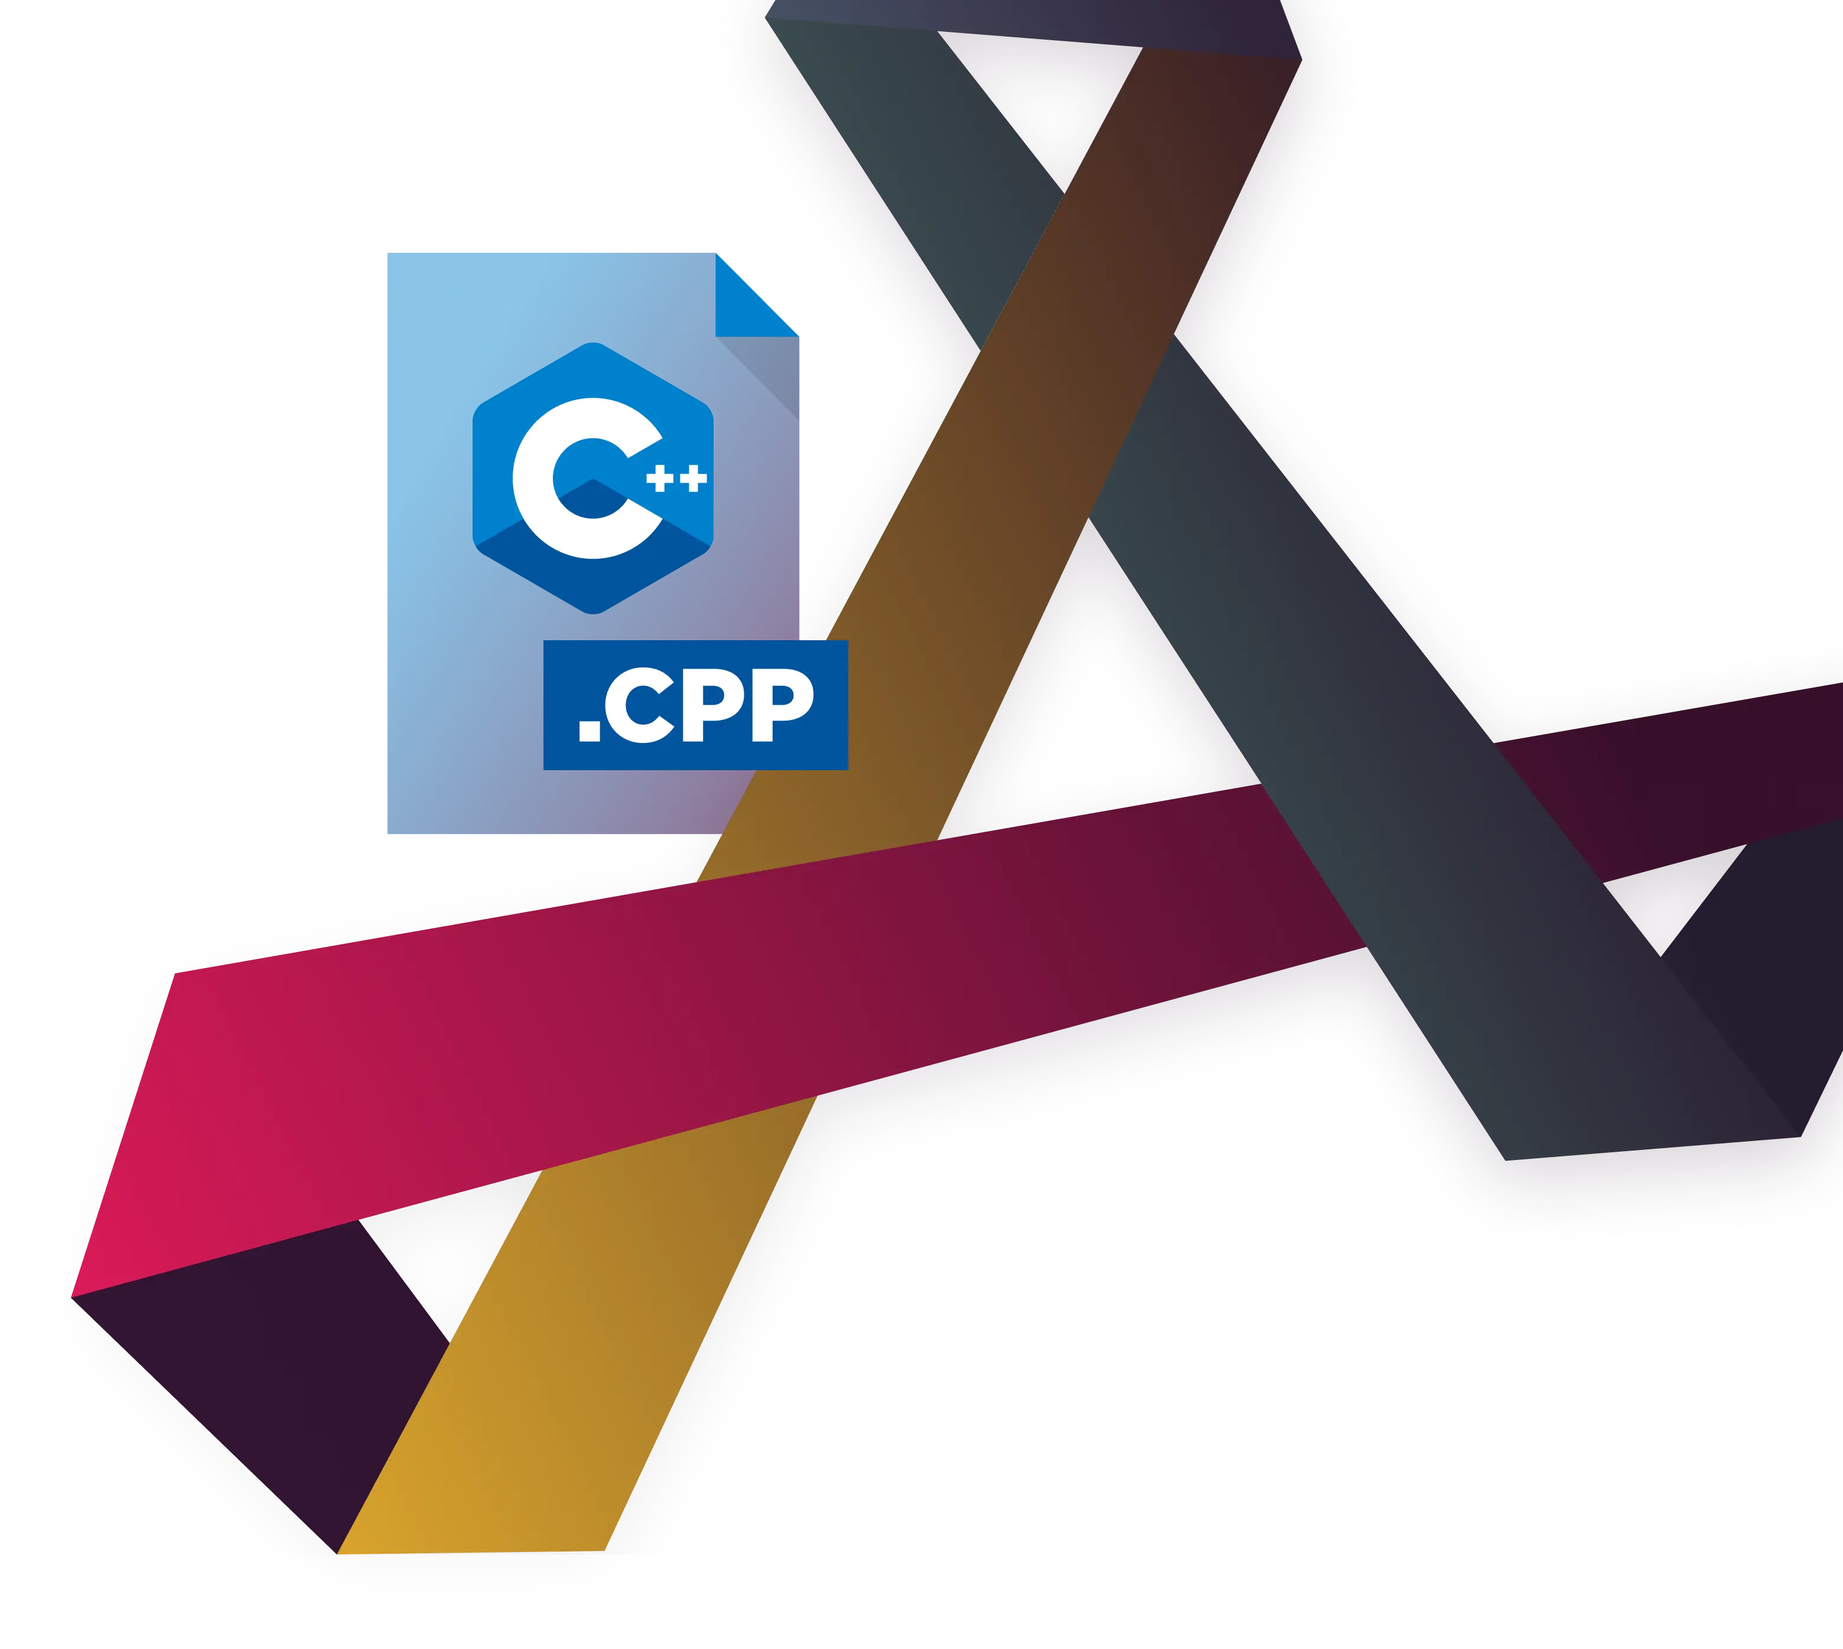
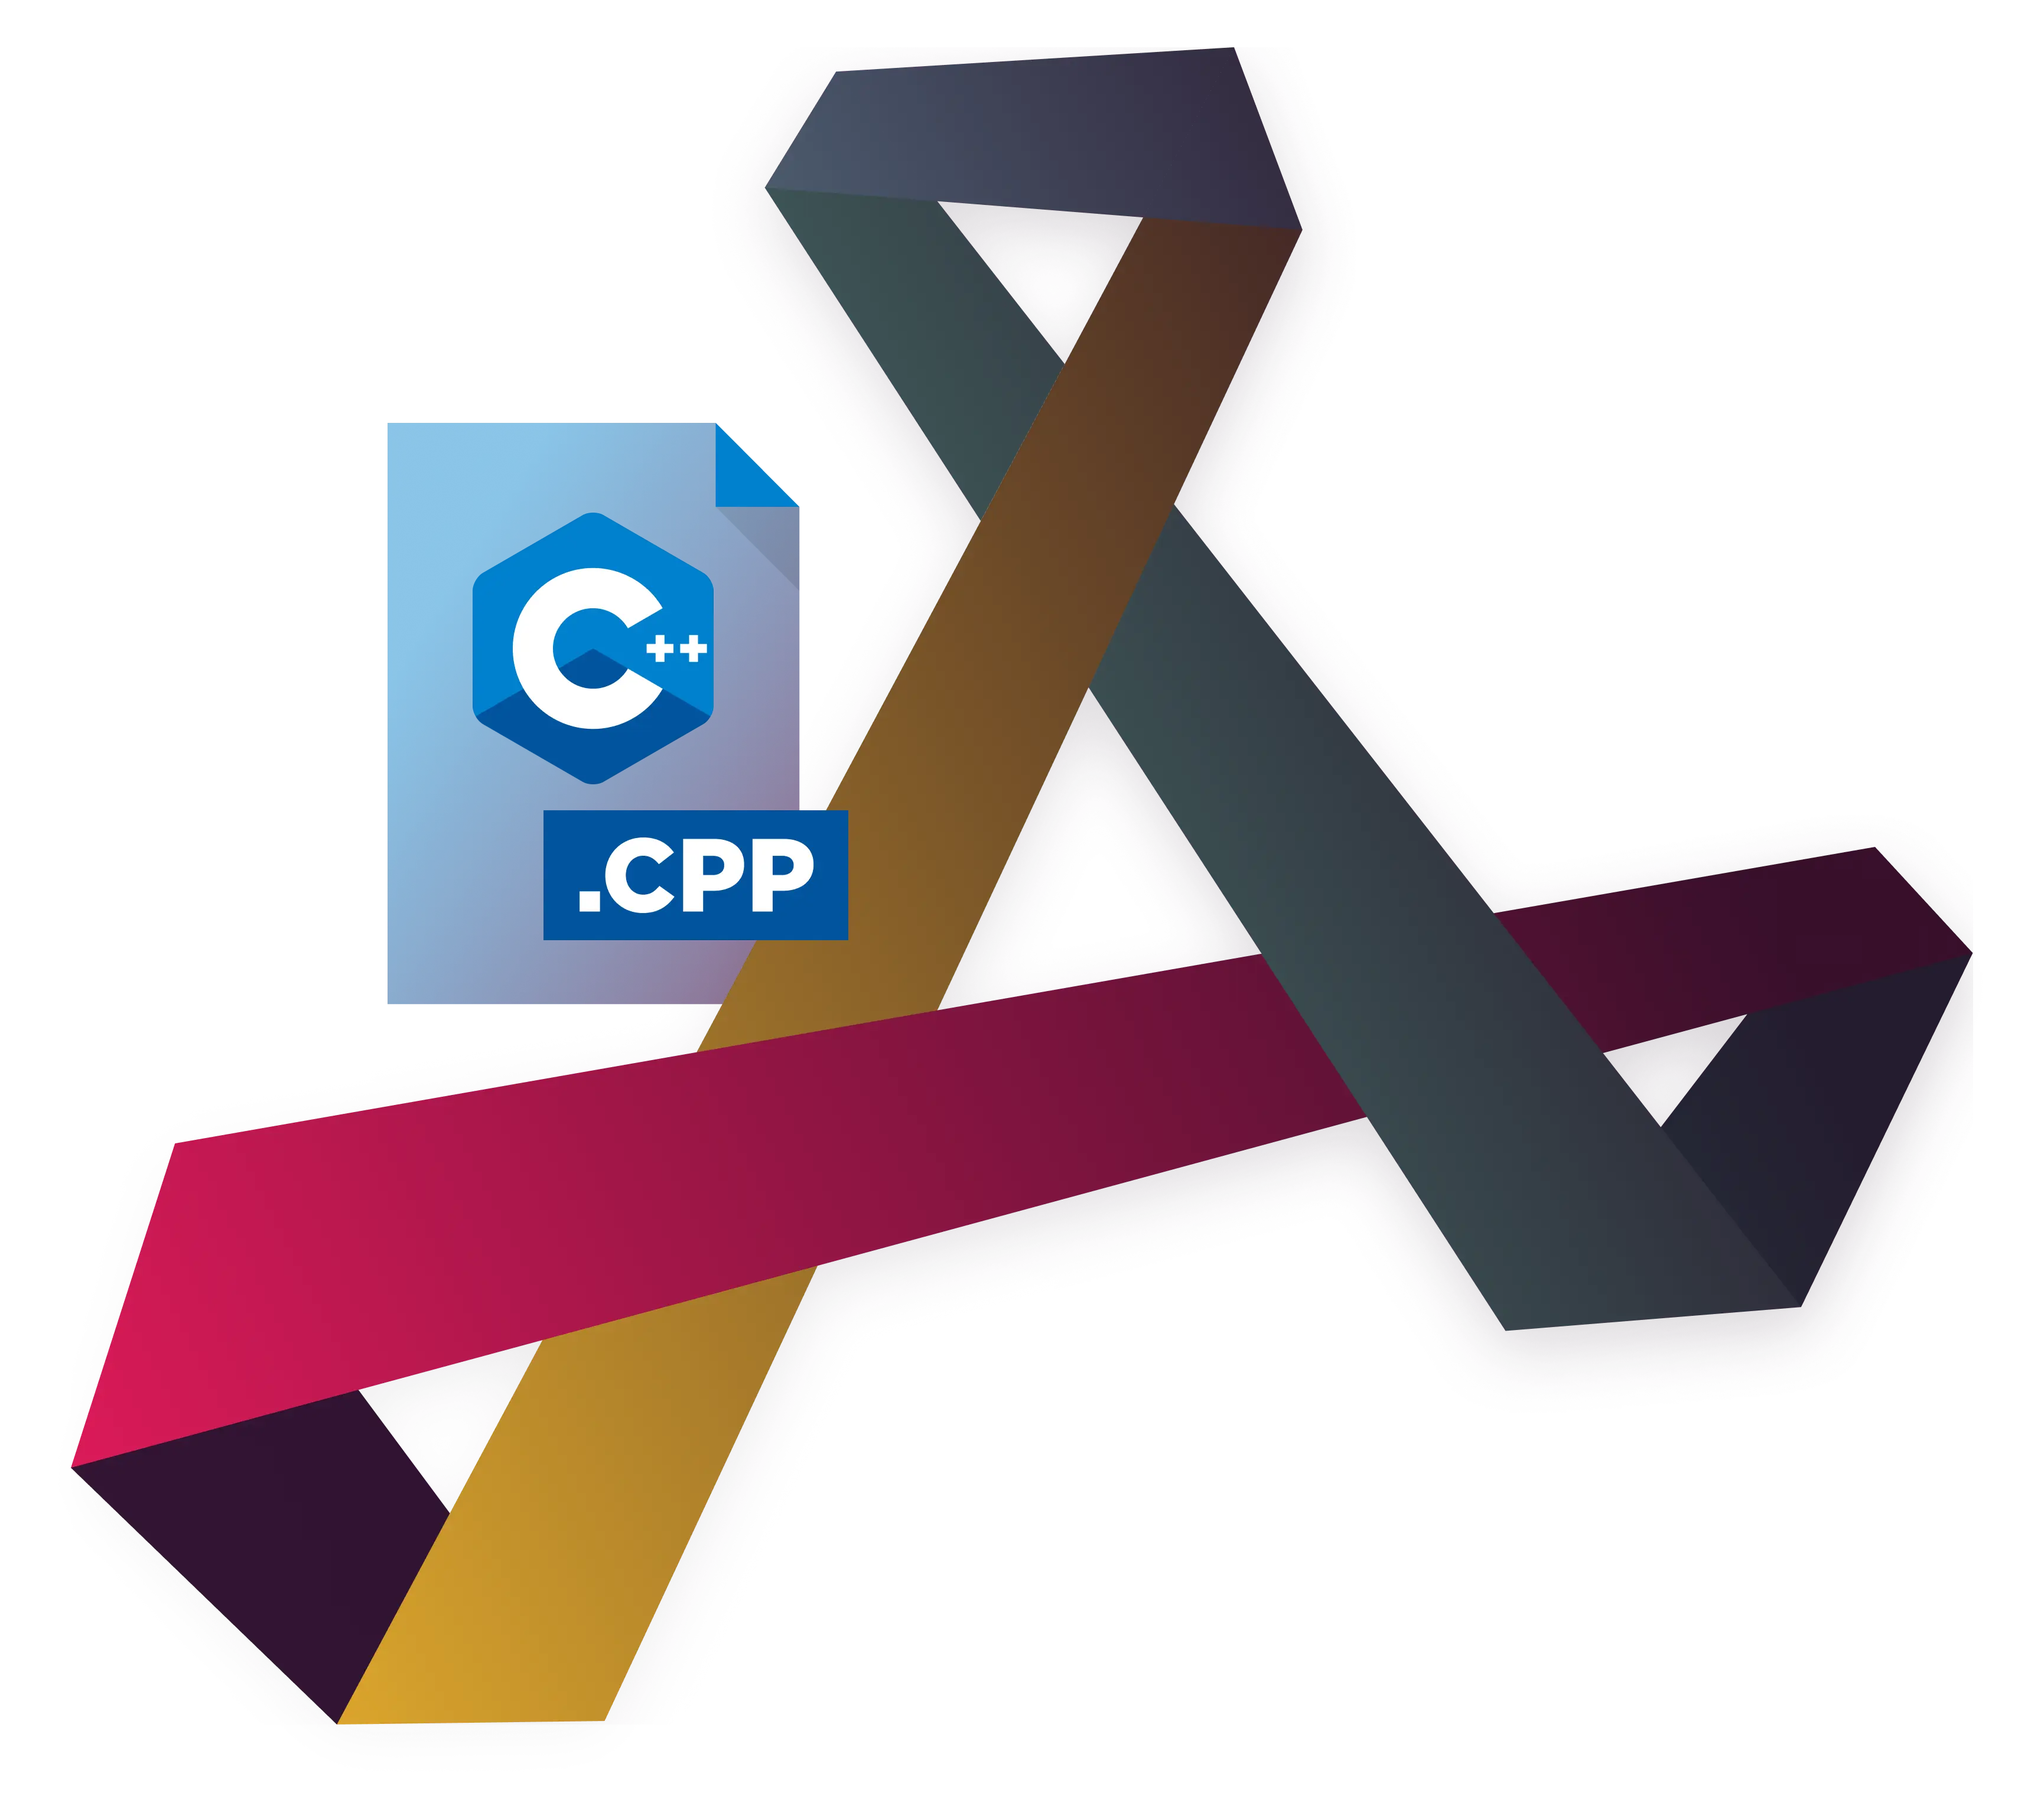
Add viewport width indicator and adjust hero section styles; update artwork dimensions and add new background image

Changed region(s): [[0.0311, 0.0, 1.0, 0.966]]

diff --git a/public/assets/css/app.css b/public/assets/css/app.css
@@ -399,14 +399,15 @@ p {
 .hero-section__art-wrap {
   position: absolute;
   right: calc((min(100vw, 1600px) - 253.2%) / -2);
-  top: -254px;
+  top: -330px;
+  left: -157px;
   z-index: 4;
   pointer-events: none;
 }
 
 .hero-section__art {
-  width: 805px;
-  height: 710px;
+  width: 880px;
+  height: 100%;
   object-fit: cover;
   object-position: left center;
 }
@@ -535,7 +536,7 @@ p {
 
 .hero-signup__note-text strong {
   color: var(--text-primary);
-  font-weight: var(--fw-medium);
+  font-weight: var(--fw-bold);
 }
 
 .product-overview {

diff --git a/app/Views/layouts/default.php b/app/Views/layouts/default.php
@@ -26,5 +26,11 @@
 
 <!-- Custom JS -->
 <script src="/assets/js/app.js" defer></script>
+
+<!-- Dev: viewport width indicator -->
+<div id="vw-indicator" style="position:fixed;bottom:8px;right:8px;z-index:99999;background:rgba(0,0,0,.7);color:#0f0;font:bold 13px/1 monospace;padding:4px 8px;border-radius:4px;pointer-events:none;"></div>
+<script>
+(function(){var el=document.getElementById('vw-indicator');function u(){el.textContent=window.innerWidth+'px';}window.addEventListener('resize',u);u();})();
+</script>
 </body>
 </html>
